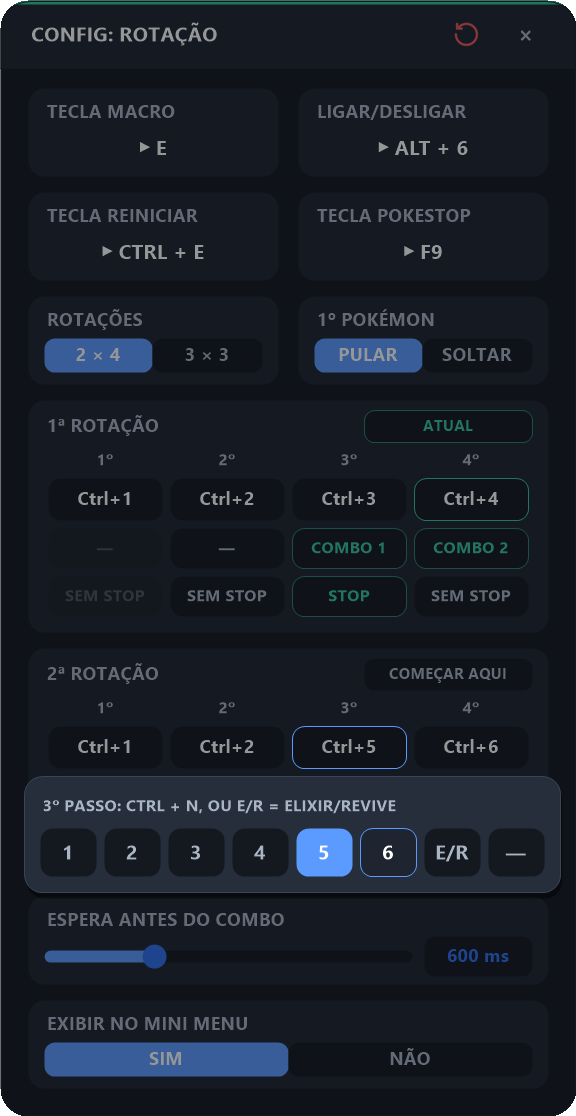
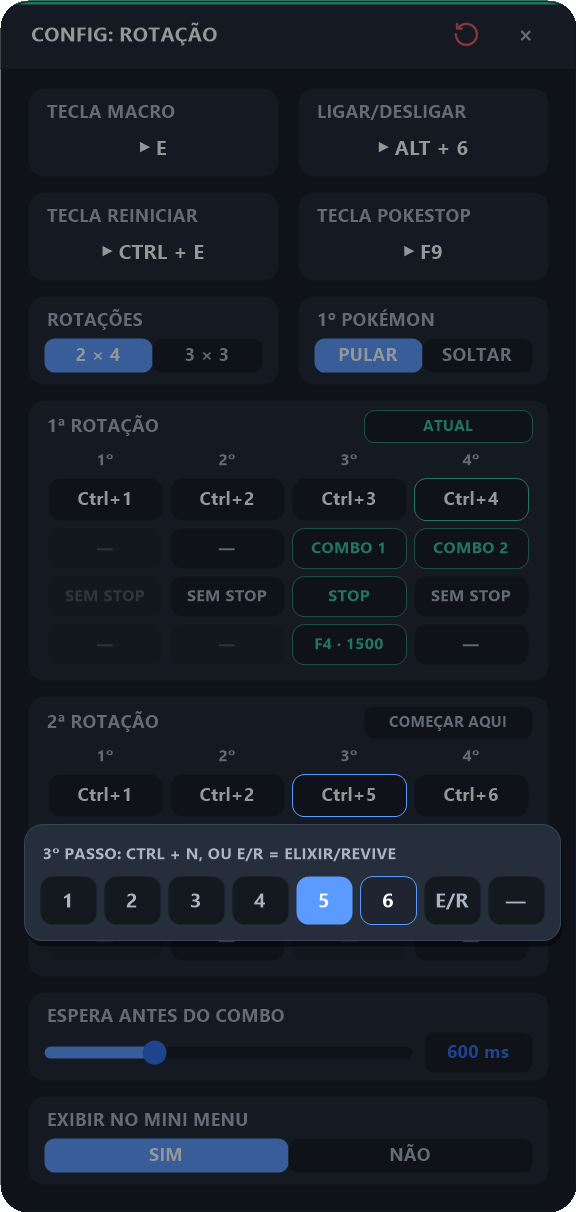
Rotação: pausa no meio do combo pós-troca, por passo, com contagem na tela (v2.6.0)
Cada passo da Rotação ganha uma 4ª linha (PAUSA): depois da tecla N do
combo pós-troca, espera 500-3000 ms (no lugar do delay entre teclas) para
o jogador mover o pokémon e então solta o resto. Painel = seletor da
tecla + slider do tempo (_GCfg_AbrirSeletor ganhou slider opcional).
Durante a pausa, um aviso mostra só o tempo restante; interromper a
Rotação cancela o resto e fecha o aviso. ShowHint reaproveita a janela
(sem piscar) e devolve um nº para FecharHint.

diff --git a/CLAUDE.md b/CLAUDE.md
@@ -27,7 +27,7 @@ There is no test suite. To check a change:
 - `lib/config.ahk` — **the only** path to `config.ini`. `CfgLer(secao, chave, padrao)` reads from an in-memory cache (`IniRead` is file I/O and used to be called 100+ times per keypress); the whole file is loaded into it at once on first access (`_CfgCarregar`, keyed on `configFile`, so pointing `configFile` elsewhere reloads automatically), and a key missing from the cache means "absent → default", never a disk read. `SalvarCfg(secao, chave, valor)` writes through to both disk and cache (this module is the only INI writer, so changes never trigger a full reload), `ResetarSecao(secao)` deletes a whole INI section, reloads the cache and re-registers hotkeys. `GetCfg(tipo)` assembles the full config Map a macro needs. **Never call `IniRead`/`IniWrite` directly anywhere else.**
 - `lib/gdip.ahk` — low-level GDI+ wrapper (layered-window canvas, brushes, text, image tinting/scaling/caching). `Gdip_LoadImage` loads PNGs from an in-memory stream, never `GdipLoadImageFromFile` — that keeps the file locked for the whole session and made the updater fail to overwrite `icons\`.
 - `lib/gdip_config.ahk` — shared framework for **config screens**: `_GCfg_Abrir(w, h, drawFn)` opens a layered window and calls `drawFn(g, w, h, hoverId)` on every redraw to draw widgets and return hit-test boxes; mouse routing, dragging, slider editing, and the in-window confirm overlay (`_GCfg_Confirmar`, replaces native MsgBox dialogs) and the dropdown-like option picker (`_GCfg_AbrirSeletor`, a popover of chips anchored under a button — used by Rotação's steps and Cooldown's Ctrl+N per position; prefer it over click-to-cycle buttons) all live here. Only one config screen is open at a time — opening another closes the previous one. A screen taller than its monitor's work area scrolls transparently: the window gets `_gcfgVisH` (what fits), the full screen is drawn into an offscreen canvas (`_gcfgConteudo`) and `_GCfg_RedrawRolando` copies the pinned header (`_GCFG_HEADER_H`) plus the visible body slice; mouse coords go through `_GCfg_ParaConteudo` before hit-testing (except the confirm overlay, drawn in window coords — `_gcfgBoxesTela`). Draw functions know nothing about scrolling, so new screens need no changes; the right-edge 12 px gutter (outside the 14 px card padding) is the scrollbar. Reusable widgets: `_GCfg_Field`, `_GCfg_Toggle`, `_GCfg_Segmented`, `_GCfg_Slider`, `_GCfg_MiniSlider`, `_GCfg_MiniButton`, `_GCfg_ShowInMini`, `_GCfg_Header`.
-- `lib/hint.ahk` — `ShowHint(text, time, kind)` floating notification banner (kind: info/success/warn/danger), same GDI+ layered-window technique.
+- `lib/hint.ahk` — `ShowHint(text, time, kind)` floating notification banner (kind: info/success/warn/danger), same GDI+ layered-window technique. A new hint while one is showing reuses the window (no destroy/recreate flicker — the combo pause countdown redraws every 100ms). `ShowHint` returns a sequence number; `FecharHint(n)` closes it only if no newer hint replaced it.
 - `lib/window.ahk` — window helpers shared by the HUD and config screens: `JogoAtivo()` (is the game focused), `DragJanela`, `Win_MostrarSemAtivar`, `Win_ArmarMouseLeave`, `Win_DecodeXY`, and elevation detection (`VerificarElevacaoJogo` — if the game runs as admin but the script doesn't, Windows silently blocks sent keys/hotkeys; the script detects this and offers to relaunch itself elevated).
 - `lib/input.ahk` — key/position capture used by config screens: `CapturarTecla` (single key, used for keys the macro *sends to the game*), `CapturarCombo` (key + optional Ctrl/Alt/Shift, used for hotkeys), `CapturarPosicaoMouse`. Both capture flows route through `_SalvarTeclaCapturada`, which checks `ConflitoDeTecla` before saving. `LButton`/`RButton` are always rejected as macro keys (they'd stop reaching the game). Exception: `CapturarTecla(..., comMods := true)` (Rotação's `teclaElixir`) accepts Ctrl/Alt/Shift and `RButton` for a key that is only *sent*; such keys must be sent via `_TeclaParaSend` (`"^XButton2"` → `"^{XButton2}"`), not `"{" key "}"`.
 - `lib/deteccao.ahk` — detects whether the Pokémon is out of the pokéball by `ImageSearch`-ing the game window for the skill bar's pointing-finger icon (bar is translucent, resizable and draggable, so a fixed pixel won't work). The user captures the icon once from the Revive config screen (`CapturarIconeDedo`); dark background pixels are keyed to magenta and saved to the gitignored `revive_dedo.bmp` for `*TransFF00FF`. `EstadoPokemonFora()` returns 1/0/-1 (-1 = not calibrated → revive keeps the old always-recall behavior).
@@ -45,7 +45,7 @@ There is no test suite. To check a change:
 - Combo sequencing (`_RodarSequenciaCombo` in `combo.ahk`) is shared by `comboPrincipal`/`comboSecundario`/`comboRevive` and Rotação's post-swap combo: optional Full Attack key → sequential keys from `teclaInicial` to `teclaFinal` (as `F<n>` or `<n>` depending on the global `usarPrefixoF` setting) → optional Full Defense key. Interruption is a generation counter, not a flag: `InterromperCombo()` bumps `_comboGeracao` and returns the new value; every combo run captures that `gen` and stops once it changes (a flag broke when the interrupter also runs a combo — AHK suspends the older thread until the newer one finishes, so the old combo resumed afterwards). All waits go through `EsperarInterrompivel(ms, gen)`, which polls `_ComboPodeContinuar(gen)` (generation unchanged and `JogoAtivo()`) every ~10ms using a deadline computed from `A_TickCount` — plain `Sleep` accumulation was found to drift under Windows' ~15.6ms timer granularity.
 - `revive.ahk`'s `_EnviarSequenciaRevive` runs in `Critical` mode so another hotkey thread can't interleave key-up/down events mid-sequence; `_reviveOcupado` is a re-entrancy lock shared between `revive` and `comboRevive` (both ultimately call this same function). Behavior branches on the global `modoLegado` setting (right-click targeting vs. `Ctrl+1` slot select).
 - `cooldown.ahk` walks Pokémon slots from `pokemonInicial` down to 1, sending `Ctrl+<mapped key>` per slot (no mouse click/position) (the mapped key lets slot order differ from team order), waiting a per-slot configured number of seconds between each. Auto re-focuses the game window mid-wait if it lost focus, and bails out if the game process disappears entirely.
-- `rotacao.ahk`: each exec press sends one `Ctrl+<slot>` and advances `_rotacaoPos` (in-memory only) through the sequence of all rotations in order. Format `formato` = `2x4` (2 rotations × 4 steps, INI keys `r<rot>p<passo>`) or `3x3` (3 × 3, keys `t<rot>p<passo>` — separate so switching keeps both configs); see `GetFormatoRotacao`/`_CfgSlotRotacao`/`_ChaveSlotRotacao`. 0 = empty/skipped step (3x3 defaults rot 3 step 2 to empty: the "repeated pokémon" the user can opt into). The config screen's height depends on the format (`AlturaConfigRotacao`), so changing format reopens it via `SetTimer`. Each rotation card has an `ATUAL` / `COMEÇAR AQUI` chip; the latter calls `RotacaoIrPara(rot)` (position → that rotation's first sent step; the lap/E-R turn is unchanged). On a rotation with an ITEM step the chip (even `ATUAL`) opens an ELIXIR/REVIVE picker instead (`_ComecarRotacaoComVez` → `RotacaoDefinirVez`, which sets `_rotacaoCiclo` parity; on `ATUAL` only the turn changes). `_GCfg_AbrirSeletor` takes an optional `chipW` for word-sized options. Turning the macro on (`DefinirMacro`), editing the config, or the extra `teclaReiniciar` hotkey (a non-exec slot in `_HotkeySlots`) reset it to step 1 of the sequence. Unless `enviarPrimeiro=true`, `RotacaoSequencia` drops step 1 of *every* rotation (the player pulls that pokémon manually at the start of each rotation), so the default sequence is `2-3-4 | 2-5-6` (2x4) or `2-3 | 4-5 | 6` (3x3). Each press also calls `InterromperCombo()` so a running combo stops before the swap. Each step can also fire a combo after the swap (INI key = step key + `c`, 0 none / 1 `comboPrincipal` / 2 `comboSecundario`, see `_CfgComboRotacao`/`COMBOS_ROTACAO`), after `delayCombo` ms; it runs from a `SetTimer` (`_RodarComboRotacao`), not the hotkey thread, because `#MaxThreadsPerHotkey 2` would drop rapid presses during a long combo. It uses that combo's keys even if that combo macro is off. Each step can also have Pokestop on (INI key = step key + `s`, `true`/`false`, see `_CfgPokestopRotacao`): right after the `Ctrl+<slot>` (in the hotkey thread, before the combo timer) it waits `Rotacao/delayPokestop` ms (default 400, INI-only — sent right after the swap the game ignored it) and sends the global `Geral/teclaPokestop` key (`GetTeclaPokestop`), editable from both the Rotação and Configurações Gerais screens. Its icon is `icons/rotacao.png`; when the macro is on, `_HudDesenharIconeRotacao` darkens it and draws the next slot number on top ("R" for a revive, "E" while an elixir is pending for the next combo — `RotacaoElixirPendente`). A step (never step 1) can be an ITEM step instead of a slot (INI value `item`, `_CfgSlotRotacao` returns `ROTACAO_ITEM`, picker label `E/R`) that alternates per lap of the sequence (`_rotacaoCiclo`, odd = elixir, even = revive; reset by `ReiniciarRotacao`), always on the pokémon *before* it: on elixir laps the rotation key skips it, and while `_rotacaoPos` sits on it the next `comboPrincipal`/`comboSecundario` (via `ExecutarCombo` → `RotacaoUsarElixir`) first sends `Rotacao/teclaElixir` and waits `delayElixir` (once per position) — likewise a rotation post-swap combo, but only when the item is in the same rotation as the step just sent, so the previous rotation's last pokémon never gets it; on revive laps the rotation key runs `_EnviarSequenciaRevive` with the Revive screen's config, then that step's stop/combo. `elixirModo`/`reviveModo` = `mao` makes the macro skip that lap. `_RotacaoAlvo` resolves which entry a press actually sends (skipping inactive item steps); `_RotacaoAvancar` advances from it. The screen grows by 104 px (elixir/revive fields) only when the format has an ITEM step, so gaining/losing one reopens it.
+- `rotacao.ahk`: each exec press sends one `Ctrl+<slot>` and advances `_rotacaoPos` (in-memory only) through the sequence of all rotations in order. Format `formato` = `2x4` (2 rotations × 4 steps, INI keys `r<rot>p<passo>`) or `3x3` (3 × 3, keys `t<rot>p<passo>` — separate so switching keeps both configs); see `GetFormatoRotacao`/`_CfgSlotRotacao`/`_ChaveSlotRotacao`. 0 = empty/skipped step (3x3 defaults rot 3 step 2 to empty: the "repeated pokémon" the user can opt into). The config screen's height depends on the format (`AlturaConfigRotacao`), so changing format reopens it via `SetTimer`. Each rotation card has an `ATUAL` / `COMEÇAR AQUI` chip; the latter calls `RotacaoIrPara(rot)` (position → that rotation's first sent step; the lap/E-R turn is unchanged). On a rotation with an ITEM step the chip (even `ATUAL`) opens an ELIXIR/REVIVE picker instead (`_ComecarRotacaoComVez` → `RotacaoDefinirVez`, which sets `_rotacaoCiclo` parity; on `ATUAL` only the turn changes). `_GCfg_AbrirSeletor` takes an optional `chipW` for word-sized options, and an optional `slider` object (a `_GCfg_Slider` drawn under the chips; with it, picking a chip keeps the panel open). Turning the macro on (`DefinirMacro`), editing the config, or the extra `teclaReiniciar` hotkey (a non-exec slot in `_HotkeySlots`) reset it to step 1 of the sequence. Unless `enviarPrimeiro=true`, `RotacaoSequencia` drops step 1 of *every* rotation (the player pulls that pokémon manually at the start of each rotation), so the default sequence is `2-3-4 | 2-5-6` (2x4) or `2-3 | 4-5 | 6` (3x3). Each press also calls `InterromperCombo()` so a running combo stops before the swap. Each step can also fire a combo after the swap (INI key = step key + `c`, 0 none / 1 `comboPrincipal` / 2 `comboSecundario`, see `_CfgComboRotacao`/`COMBOS_ROTACAO`), after `delayCombo` ms; it runs from a `SetTimer` (`_RodarComboRotacao`), not the hotkey thread, because `#MaxThreadsPerHotkey 2` would drop rapid presses during a long combo. It uses that combo's keys even if that combo macro is off. Each step can also pause that post-swap combo mid-way (INI keys = step key + `pt` (key number, 0 none) / `pm` (ms, `PAUSA_ROTACAO_MIN..MAX`), see `_CfgPausaRotacao`, edited from the 4th chip via a seletor-with-slider panel): `_RodarSequenciaCombo(cfg, gen, pausa)` replaces the inter-key delay after that key with `_EsperarPausaCombo` (interruptible, countdown hint showing only the remaining time); ignored if the key isn't between `teclaInicial` and `teclaFinal - 1`. Only the rotation's post-swap combo pauses, never the combos' own hotkeys. Each step can also have Pokestop on (INI key = step key + `s`, `true`/`false`, see `_CfgPokestopRotacao`): right after the `Ctrl+<slot>` (in the hotkey thread, before the combo timer) it waits `Rotacao/delayPokestop` ms (default 400, INI-only — sent right after the swap the game ignored it) and sends the global `Geral/teclaPokestop` key (`GetTeclaPokestop`), editable from both the Rotação and Configurações Gerais screens. Its icon is `icons/rotacao.png`; when the macro is on, `_HudDesenharIconeRotacao` darkens it and draws the next slot number on top ("R" for a revive, "E" while an elixir is pending for the next combo — `RotacaoElixirPendente`). A step (never step 1) can be an ITEM step instead of a slot (INI value `item`, `_CfgSlotRotacao` returns `ROTACAO_ITEM`, picker label `E/R`) that alternates per lap of the sequence (`_rotacaoCiclo`, odd = elixir, even = revive; reset by `ReiniciarRotacao`), always on the pokémon *before* it: on elixir laps the rotation key skips it, and while `_rotacaoPos` sits on it the next `comboPrincipal`/`comboSecundario` (via `ExecutarCombo` → `RotacaoUsarElixir`) first sends `Rotacao/teclaElixir` and waits `delayElixir` (once per position) — likewise a rotation post-swap combo, but only when the item is in the same rotation as the step just sent, so the previous rotation's last pokémon never gets it; on revive laps the rotation key runs `_EnviarSequenciaRevive` with the Revive screen's config, then that step's stop/combo. `elixirModo`/`reviveModo` = `mao` makes the macro skip that lap. `_RotacaoAlvo` resolves which entry a press actually sends (skipping inactive item steps); `_RotacaoAvancar` advances from it. The screen grows by 104 px (elixir/revive fields) only when the format has an ITEM step, so gaining/losing one reopens it.
 - All macro key/hotkey capture and conflict checking goes through `lib/input.ahk` + `ConflitoDeTecla`/`HotkeySlotExiste` in `macros/hotkeys.ahk` — don't hand-roll new `Hotkey()` registrations elsewhere.
 
 ### User documentation (`README.md` + `docs/`)

diff --git a/README.md b/README.md
@@ -32,7 +32,7 @@ Tutoriais ilustrados de como configurar e usar cada função, tela por tela:
 | 3 | [Revive](docs/03-revive.md) | Reviver com um botão + detecção do pokémon (ícone do dedo) |
 | 4 | [Combo Revive](docs/04-combo-revive.md) | Reviver e já soltar um combo |
 | 5 | [Cooldown](docs/05-cooldown.md) | Rotação de pokémons com `Ctrl + N` e tempos por posição |
-| 6 | [Rotação](docs/06-rotacao.md) | Uma tecla que troca de pokémon numa ordem salva (e, se quiser, aperta o Pokestop e solta um combo logo depois, e alterna Elixir de Ataque / Revive), com o próximo `Ctrl + N` na HUD |
+| 6 | [Rotação](docs/06-rotacao.md) | Uma tecla que troca de pokémon numa ordem salva (e, se quiser, aperta o Pokestop e solta um combo logo depois — com pausa no meio para mover o pokémon —, e alterna Elixir de Ataque / Revive), com o próximo `Ctrl + N` na HUD |
 | 7 | [Configurações Gerais](docs/07-configuracoes-gerais.md) | Prefixo F, Modo Legado, tamanho, HUD vertical, Tecla de Pânico, Full Attack/Defense, Tecla Pokestop, atualizações |
 
 <p align="center"><img src="docs/img/hud-hover.png" width="480" alt="HUD do PokéMacro"></p>
@@ -345,7 +345,7 @@ Funciona exatamente igual ao **Combo Principal**, mas é uma configuração sepa
 2. Passos vazios (`—`) são pulados — ex.: o 2º passo da 3ª rotação no 3 × 3 (o pokémon repetido) vem vazio; com um `Ctrl+N` nele, a repetição passa a sair.
 3. Ligar a Rotação sempre começa do início; a **Tecla Reiniciar** faz o mesmo no meio do jogo. Por padrão o macro **pula o 1º passo de todas as rotações** (você puxa esse pokémon à mão no começo de cada rotação): no 2 × 4 os apertos enviam `2-3-4 | 2-5-6`, no 3 × 3 `2-3 | 4-5 | 6`, e voltam para o `2`.
 4. Cada aperto **interrompe o combo em andamento**, para as skills restantes não saírem no pokémon que acabou de entrar.
-5. **Combo depois da troca (opcional, por passo):** cada passo pode soltar o **Combo 1** (config do Combo Principal) ou o **Combo 2** (config do Combo Secundário) logo depois do `Ctrl+N`, após a **Espera antes do combo**. Apertar a Tecla Macro de novo no meio do combo para ele e já faz a próxima troca.
+5. **Combo depois da troca (opcional, por passo):** cada passo pode soltar o **Combo 1** (config do Combo Principal) ou o **Combo 2** (config do Combo Secundário) logo depois do `Ctrl+N`, após a **Espera antes do combo**. Apertar a Tecla Macro de novo no meio do combo para ele e já faz a próxima troca. Cada passo também pode **pausar o combo** depois de uma tecla (ex.: `F2`) por 500 a 3000 ms, para você mover o pokémon — com a contagem do tempo na tela — e então soltar o resto.
 6. **Pokestop (opcional, por passo):** com o `STOP` ligado num passo, o macro aperta a **Tecla Pokestop** ~0,4 s depois do `Ctrl+N` (tempo do jogo processar a troca) — antes do combo pós-troca, se houver.
 7. **Elixir / Revive (passo `E/R`, opcional):** um passo pode ser `E/R` em vez de um `Ctrl+N` — ex.: o 2º da 3ª rotação no 3 × 3, que fica `1 → E/R → 6`. Ele alterna a cada volta da sequência, sempre no pokémon de antes dele (o 1º): na 1ª volta (e 3ª, 5ª...) é o **Elixir de Ataque**, usado automaticamente quando você aperta a tecla do **Combo Principal/Secundário** nesse pokémon, antes das skills; na 2ª volta (e 4ª, 6ª...) é o **Revive**, feito pela Tecla Macro da Rotação (depois dele, o combo e o Pokestop do passo, se marcados). Cada um pode ser `MACRO` ou `MÃO` (o macro pula aquela volta).
 
@@ -360,8 +360,9 @@ Funciona exatamente igual ao **Combo Principal**, mas é uma configuração sepa
 | **Rotações** | Formato `2 × 4` ou `3 × 3` — a tela mostra um cartão por rotação |
 | **1º Pokémon** | `PULAR` (padrão): o 1º passo das rotações nunca é enviado (puxado à mão). `SOLTAR`: o 1º passo sai normalmente |
 | **Cartões das rotações** | O `Ctrl+N` de cada passo. Clicar num passo abre um seletor com `1` a `6`, `E/R` (elixir/revive, do 2º passo em diante) e `—` (vazio); clicar fora ou `Esc` fecha. Mexer em um passo reinicia a rotação. No canto de cada cartão, `ATUAL` marca a rotação do próximo aperto e `COMEÇAR AQUI` pula para o começo de outra (ex.: depois de fazer uma rotação à mão). Na rotação com `E/R`, o chip também pergunta se a vez é do `ELIXIR` ou do `REVIVE` |
-| **Combo depois da troca** | Linha de baixo de cada cartão: `—` (nenhum), `COMBO 1` ou `COMBO 2` — o combo solto logo depois de trocar para aquele passo. Não reinicia a rotação |
-| **Pokestop** | Última linha de cada cartão: `STOP` (aperta a Tecla Pokestop logo depois da troca, antes do combo) ou `SEM STOP` (padrão). Clique para alternar |
+| **Combo depois da troca** | 2ª linha de cada cartão: `—` (nenhum), `COMBO 1` ou `COMBO 2` — o combo solto logo depois de trocar para aquele passo. Não reinicia a rotação |
+| **Pokestop** | 3ª linha de cada cartão: `STOP` (aperta a Tecla Pokestop logo depois da troca, antes do combo) ou `SEM STOP` (padrão). Clique para alternar |
+| **Pausa no combo** | Última linha de cada cartão: `—` (sem pausa) ou, ex., `F4 · 1500` — o combo pós-troca para depois do `F4` por 1500 ms (aviso com a contagem na tela) e só então solta o resto. Clique para escolher a tecla e o tempo (500 a 3000 ms). Não reinicia a rotação |
 | **Tecla Elixir** / **Elixir** | *(só com um passo `E/R`)* A hotkey do Elixir de Ataque no jogo (aceita Ctrl/Alt/Shift + tecla ou botão do mouse, ex.: `CTRL + XBUTTON2`), e se ele é usado pelo `MACRO` ou à `MÃO` |
 | **Revive** | *(só com um passo `E/R`)* Se o revive é feito pelo `MACRO` (com a posição, hotkey e delay da tela do Revive) ou à `MÃO` |
 | **Espera antes do combo** | Tempo (0–2000 ms, padrão 500) entre a troca e o combo, para o pokémon já estar fora |
